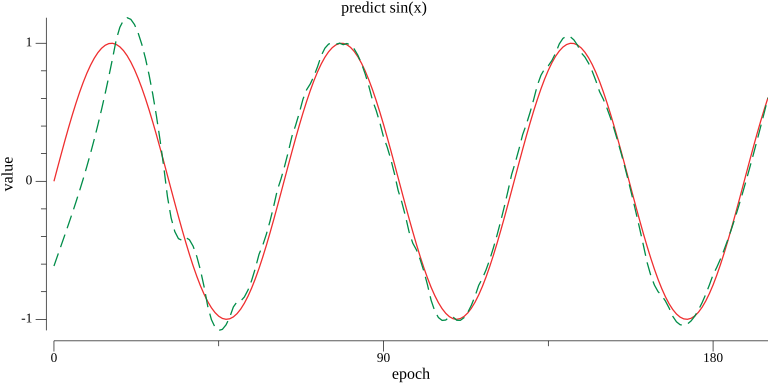
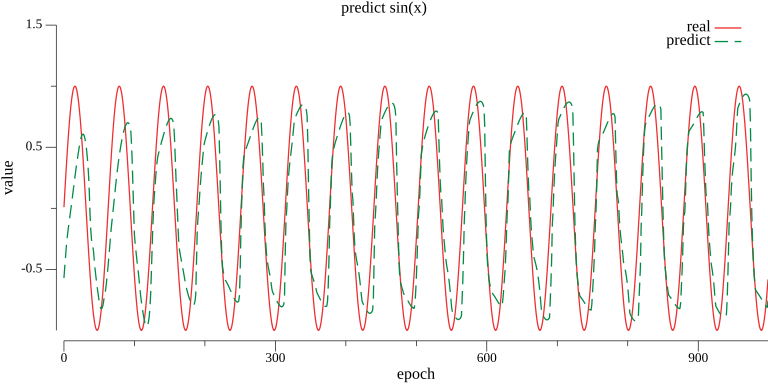
修改输入输出值

diff --git a/example/sin/main.go b/example/sin/main.go
@@ -7,6 +7,7 @@ import (
 	"github.com/lwch/runtime"
 	"github.com/lwch/tnn/nn/initializer"
 	"github.com/lwch/tnn/nn/layer"
+	"github.com/lwch/tnn/nn/layer/activation"
 	"github.com/lwch/tnn/nn/loss"
 	"github.com/lwch/tnn/nn/model"
 	"github.com/lwch/tnn/nn/net"
@@ -20,7 +21,7 @@ import (
 
 const lr = 1e-3
 const epoch = 1000
-const batchSize = 100
+const batchSize = 10
 const times = 8
 
 func main() {
@@ -29,10 +30,10 @@ func main() {
 	var net net.Net
 	net.Set(
 		layer.NewRnn(times, 32, initializer),
-		layer.NewDense(times, initializer),
+		activation.NewReLU(),
 		layer.NewDense(1, initializer),
 	)
-	loss := loss.NewMAE()
+	loss := loss.NewMSE()
 	optimizer := optimizer.NewAdam(lr, 0, 0.9, 0.999, 1e-8)
 	m := model.New(&net, loss, optimizer)
 
@@ -53,9 +54,6 @@ func main() {
 		join(&predict, i, pred)
 		if i%100 == 0 {
 			fmt.Printf("Epoch: %d, Loss: %.05f, Accuracy: %.02f%%\n", i, loss, acc)
-		}
-		if acc > 90 {
-			break
 		}
 	}
 
@@ -83,10 +81,13 @@ func getBatch(i int) (*mat.Dense, *mat.Dense) {
 	max := float64(epoch * batchSize * times)
 	for batch := 0; batch < batchSize; batch++ {
 		var n float64
-		for tk := 0; tk < times; tk++ {
-			n = float64(i) / max * 100
-			inputs.Set(batch, tk, n)
+		for t := 0; t < times-1; t++ {
+			n = float64(i-1) / max * 100
+			inputs.Set(batch, t, math.Sin(n))
+			i++
 		}
+		n = float64(i) / max * 100
+		inputs.Set(batch, times-1, n)
 		outputs.Set(batch, 0, math.Sin(n))
 	}
 	return inputs, outputs
@@ -96,9 +97,7 @@ func accuracy(m *model.Model, input, output *mat.Dense) float64 {
 	predict := m.Predict(input)
 	var correct float64
 	for i := 0; i < batchSize; i++ {
-		if math.Abs(output.At(i, 0)-predict.At(i, 0)) < 1e-4 {
-			correct++
-		}
+		correct += 1 - math.Abs(output.At(i, 0)-predict.At(i, 0))
 	}
 	return correct * 100 / batchSize
 }
